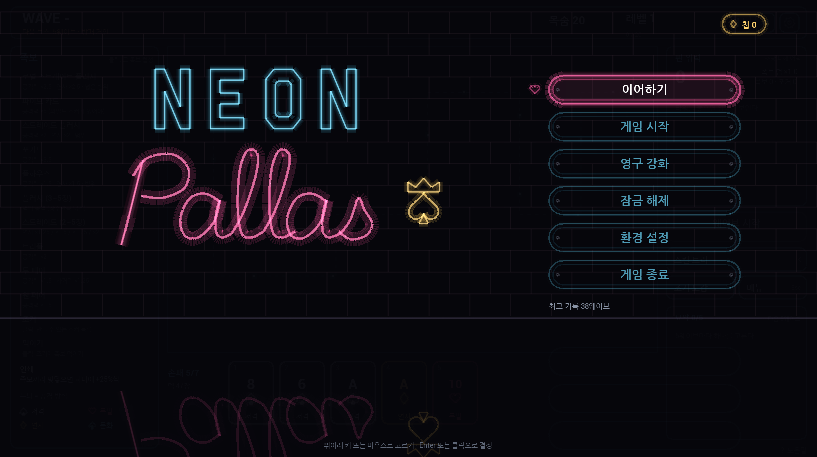
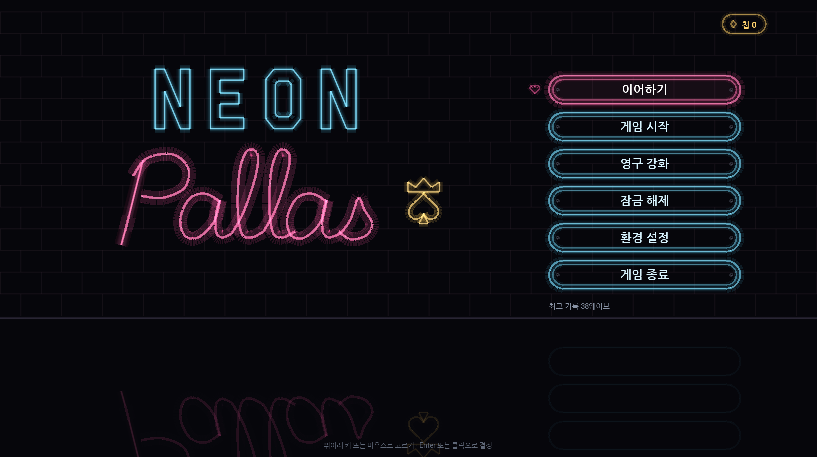
Title: opaque background, buttons as lit neon tubes with white core (D-255)

Changed region(s): [[0.6426, 0.2144, 0.918, 0.6433], [0.6732, 0.1532, 0.8874, 0.1838]]

diff --git a/Source/ProjectB/PDBoardPaint.cpp b/Source/ProjectB/PDBoardPaint.cpp
@@ -2607,7 +2607,7 @@ void SPDBoardWidget::PaintTitle(FCanvas& C) const
 {
 	const FLinearColor Cyan = Hex(TEXT("6edcff")), Pink = Hex(TEXT("ff6aaa")), Gold = Hex(TEXT("ffd26e")), Grey = Hex(TEXT("8a94a6")), Dim = Hex(TEXT("5f6878"));
 	const float Pulse = 0.5f + 0.5f * FMath::Sin(Clock * 4.f);
-	C.Box(0.f, 0.f, DesignW, DesignH, Hex(TEXT("06060b"), 0.97f));
+	C.Box(0.f, 0.f, DesignW, DesignH, Hex(TEXT("06060b"), 1.f)); // 뒤 게임판이 비치지 않게 불투명 (D-255)
 	// 벽돌 벽 (흐린 선) + 바닥 경계
 	const FLinearColor Brick = Hex(TEXT("3c303a"), 0.6f);
 	for (int32 R = 0; R < 14; ++R)
@@ -2738,20 +2738,22 @@ void SPDBoardWidget::PaintTitle(FCanvas& C) const
 			const FVector2f P = TitleBtnPos(I, bHasRunSave);
 			const bool bSel = TitleSel == I;
 			const FLinearColor Col = bSel ? Pink : Cyan;
+			// 네온 간판 버튼 (D-254, D-255): 불이 들어온 튜브 두 겹 (로고와 같은 흰 심 튜브). 고르지 않은 것도 켜져 있고, 고른 것은 분홍으로 더 밝게
 			TArray<FVector2f> Rr = FCanvas::RoundRectPoints(P.X, P.Y, TitleBtnW, TitleBtnH, TitleBtnH / 2.f);
+			TArray<FVector2f> Ri = FCanvas::RoundRectPoints(P.X + 6.f, P.Y + 6.f, TitleBtnW - 12.f, TitleBtnH - 12.f, (TitleBtnH - 12.f) / 2.f);
+			const float Bo = bSel ? 0.9f + 0.1f * Pulse : 0.8f;
 			if (Pass == 0) // 반사
 			{
 				for (FVector2f& V : Rr) V.Y = 2.f * TitleFloorY - V.Y;
-				C.Glow(Rr, WithAlpha(Col, bSel ? 0.16f : 0.06f), 1.4f, bSel ? 0.3f : 0.f);
+				Tube(Rr, Col, 2.2f, Bo * 0.6f, true);
 				continue;
 			}
 			if (bSel) C.Box(P.X + 10.f, P.Y + 4.f, TitleBtnW - 20.f, TitleBtnH - 8.f, WithAlpha(Pink, 0.06f + 0.04f * Pulse));
-			C.Glow(Rr, bSel ? Col : WithAlpha(Col, 0.55f), bSel ? 2.4f : 1.3f, bSel ? 1.1f + 0.4f * Pulse : 0.25f);
-			// 네온 간판 테두리 (D-254): 안쪽 가는 튜브 + 양 끝 회색 고정 볼트
-			C.Glow(FCanvas::RoundRectPoints(P.X + 6.f, P.Y + 6.f, TitleBtnW - 12.f, TitleBtnH - 12.f, (TitleBtnH - 12.f) / 2.f), WithAlpha(Col, bSel ? 0.75f : 0.3f), 1.f, bSel ? 0.6f : 0.f);
+			Tube(Rr, Col, bSel ? 2.8f : 2.2f, Bo, false);
+			Tube(Ri, Col, 1.3f, Bo * 0.75f, false);
 			for (const float Bx : {P.X + 3.f + TitleBtnH / 4.f, P.X + TitleBtnW - 3.f - TitleBtnH / 4.f})
 				C.Lines(FCanvas::CirclePoints(FVector2f(Bx, P.Y + TitleBtnH / 2.f), 2.2f, 10), Hex(TEXT("787d8c"), 0.7f), 1.f);
-			C.TextCentered(Labels[I], P.X + TitleBtnW / 2.f, P.Y + TitleBtnH / 2.f, bSel ? FLinearColor::White : WithAlpha(Cyan, 0.7f), 18.f, true);
+			C.TextCentered(Labels[I], P.X + TitleBtnW / 2.f, P.Y + TitleBtnH / 2.f, bSel ? FLinearColor::White : Hex(TEXT("d8f4ff")), 18.f, true);
 			if (bSel) C.Shape(EPDSuit::Heart, P.X - 22.f, P.Y + TitleBtnH / 2.f, 8.f, Pink, 1.4f, 0.8f);
 		}
 	if (Game.BestWave > 0) C.Text(TrF(TEXT("최고 기록 %d웨이브"), Game.BestWave), TitleBtnX, TitleFloorY - 14.f, Grey, 12.f, 0, false);

diff --git a/docs/05-decision-log.md b/docs/05-decision-log.md
@@ -258,3 +258,4 @@
 | D-252 | 2026-11-15 | **로고 확정**: 칸 없는 NEON 블록 글자(하늘) + 필기체 Pallas(분홍) + 왕관 스페이드(금), 원래 색, 움직임은 D-251 (켜질 때 지직, 가끔 한 글자 옆 빠직 + 그 글자 깜빡). 이 분위기의 대문 UI 시안 3종: A 테두리 없는 글자 메뉴(고른 줄만 켜지고 양옆 스페이드 + 밑줄 전구, 아래 정보 줄), B 벽돌 벽 간판 + 젖은 바닥 반사 + 오른쪽 튜브 버튼, C 큰 마키 버튼 둘(이어하기 · 게임 시작) + 아이콘 동그라미 넷 (tools/neon/title_front.py) | 사용자: 이거로 픽스, 분위기 맞는 대문 UI 시안 | 마키 간판 (D-247) |
 | D-253 | 2026-11-15 | 시작 화면을 대문 시안 B 로 구현: 벽돌 벽(흐린 선) + 바닥선(y 500) + 젖은 바닥 반사(로고·버튼 테두리를 뒤집어 흐리게), 왼쪽 로고, 오른쪽 세로 튜브 버튼 6개(고른 것만 분홍 + 왼쪽 하트, 나머지는 흐린 하늘), 오른쪽 위 칩 알약, 최고 기록은 버튼 아래. 로고는 글꼴 대신 손으로 그린 네온 선(PDLogo.h, 미리보기 tools/neon/logo_strokes.py): Segoe Script·Bahnschrift 외곽선은 배포 권리가 없어서. 움직임: 화면을 열면 글자마다 지직거리며 켜지고, 6초마다 NEON 한 글자 · Pallas 한 글자 옆에서 빠직(섬광 + 불티 8개, 25fps 단계) + 그 글자 깜빡. 제목 POKER DEFENSE 와 부제는 뺐다 | 사용자: 대문 시안 2번(B) 마음에 든다 | 시안 A · C |
 | D-254 | 2026-11-15 | 버튼을 네온 간판 테두리로: 바깥 튜브 + 6px 안쪽 가는 튜브(조금 흐리게) + 양 끝 회색 고정 볼트. 고르지 않은 버튼은 둘 다 흐리게, 고른 버튼은 둘 다 켜짐. 시작 화면에 적용, 인게임 시안에도 같은 테두리 (title_front.py sign_btn, PaintTitle) | 사용자: 버튼도 네온 간판처럼 테두리 | — |
+| D-255 | 2026-11-15 | 시작 화면 뒤 게임판이 비치지 않게 배경 불투명. 버튼 테두리를 불이 들어온 네온 튜브로: 로고와 같은 흰 심 튜브 두 겹(바깥 + 안쪽 가는 것), 고르지 않은 버튼도 하늘색으로 켜져 있고(밝기 0.8) 고른 버튼은 분홍으로 더 밝게 숨쉼, 버튼 글자도 밝게 | 사용자: 테두리 색이 흐려서 싫다, 진짜 네온 간판처럼 | 흐린 튜브 (D-254) |
